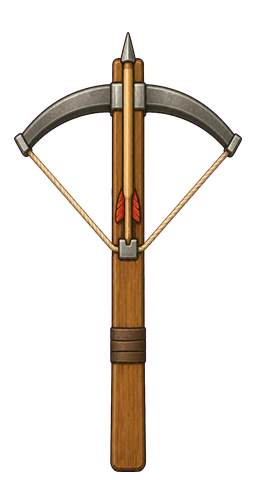
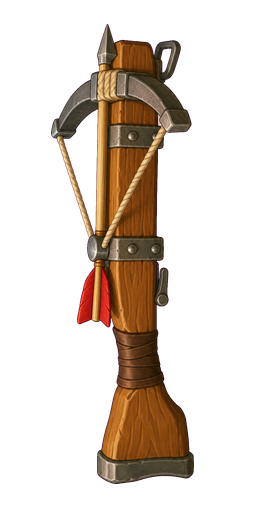
Crossbow art: drawn side-on like the characters, and beefier
The first drawing was the crossbow seen from above (a wide arch of a bow). The owner asked for
a flatter camera, the one the character art uses, and a heavier design: a new drawing
(job weapons-r6) lies level, seen from the side, the bow foreshortened, with a deep butt, a
thick banded fore-end and a heavy steel bow. weaponfit --level turns a level drawing upright
for the weapon footprint. The hold and the shot are unchanged; the hand points moved to the
new drawing's grip and fore-end.

Changed region(s): [[0.0625, 0.0312, 0.9688, 1.0]]

diff --git a/tools/art/weaponfit.js b/tools/art/weaponfit.js
@@ -15,6 +15,8 @@
  *        --hold 0.14           where along the weapon the hand holds it: 0 its butt, 1 its point
  *        [--widen 1.5]         draw it this much wider than it is long-scaled (a rapier's blade is a hair at board size;
  *                              below 1 narrows it: the crossbow is drawn from above and narrowed to the board's view)
+ *        [--level]             the drawing lies LEVEL, pointing right (the crossbow, drawn from the side as it is held):
+ *                              turn it upright, point up, before fitting; held level in the hands it is the drawing again
  *        [--pockets]           the drawing ENCLOSES background (between a crossbow's string and its stock): key every
  *                              magenta pixel, not only the magenta that touches the border. Only for art with no pink or purple
  */
@@ -31,7 +33,8 @@ const LENGTH = Number(args.length), HOLD = Number(args.hold), WIDEN = Number(arg
 
 (async () => {
   // steel is grey: never drop low-saturation pixels; only the magenta that touches the border is background
-  const keyed = await keyMagenta(fs.readFileSync(path.resolve(args.in)), { dropGrey: false, flood: !args.pockets });
+  const source = fs.readFileSync(path.resolve(args.in));
+  const keyed = await keyMagenta(args.level ? await sharp(source).rotate(270).png().toBuffer() : source, { dropGrey: false, flood: !args.pockets });
   const { data, info } = await sharp(keyed).ensureAlpha().raw().toBuffer({ resolveWithObject: true });
   const W = info.width, H = info.height, solid = (x, y) => data[(y * W + x) * 4 + 3] > 40;
   let top = H, bottom = -1, left = W, right = -1;

diff --git a/game-client/src/Render/PixiRenderer/heldWeapon.js b/game-client/src/Render/PixiRenderer/heldWeapon.js
@@ -66,8 +66,10 @@ export const WEAPON_CLASSES = {
   // `bow` names the drawing (ArmRig BOW_STYLES); every bow shares the one shot (owner 2026-11-13)
   bow:     { bow: 'short', clip: 'shoot' },
   longbow: { bow: 'long', clip: 'shoot' },
-  // drawn from above and narrowed (weaponfit --widen 0.9), so that turned level it is a crossbow in the board's view
-  crossbow: { art: 'weapon-crossbow.png', size: [256, 480], grip: [128, 344], angle: ALONG, guard: CROSSBOW_GUARD, clip: 'bolt', second: 0.34 },
+  // drawn LEVEL from the side, as the avatar is seen, its bow foreshortened, and stored upright like every weapon
+  // (weaponfit --level): held level it is that drawing again. The near hand on the leather grip, the far hand between
+  // the fore-end's two steel bands
+  crossbow: { art: 'weapon-crossbow.png', size: [256, 512], grip: [128, 360], angle: ALONG, guard: CROSSBOW_GUARD, clip: 'bolt', second: 0.38 },
   dagger:  { art: 'weapon-dagger.png', size: [128, 512], grip: [64, 448], angle: ALONG, guard: THRUST_GUARD, clip: 'thrust' },
   spear:   { art: 'weapon-spear.png', size: [128, 768], grip: [64, 470], angle: ALONG, guard: THRUST_GUARD, clip: 'thrust' },
   polearm: { art: 'weapon-halberd.png', size: [256, 896], grip: [128, 580], angle: ALONG, guard: POLE_GUARD, clip: 'thrust2', second: 0.5 },

diff --git a/docs/equipment-plan.md b/docs/equipment-plan.md
@@ -122,16 +122,16 @@ The owner asked to see the sword in the game before any more planning. What is i
   docs/art/equipment/longbow-shot.gif (half speed).
 - **The crossbow (owner 2026-11-13: "the avatar just needs to hold it level ... no animation other than
   the standard full-body recoil"):** category `crossbow` (Crossbow, Heavy Crossbow, Magic Crossbow,
-  Legendary Crossbow), clip `bolt`. A painted prop like the melee weapons (`weapon-crossbow.png`, job
-  `weapons-r5`, one candidate), held in BOTH hands as the two-handed weapons are: the near hand on the
+  Legendary Crossbow), clip `bolt`. A painted prop like the melee weapons (`weapon-crossbow.png`), held in BOTH hands as the two-handed weapons are: the near hand on the
   leather grip, the far hand under the fore-end, the weapon keyed level (`a` a quarter turn) at the
   chest. The clip has a `body` track only: the bolt goes at 30 ms and the figure kicks back 0.07 of a
   tile and settles (260 ms). A clip that keys neither arm nor weapon HOLDS the guard
-  (`ArmRig.secondPose`), so both hands stay on it through the shot. The drawing is the crossbow seen
-  from directly above, cocked, a bolt in the groove, and narrowed to 0.9 by `weaponfit --widen`: turned
-  level in the hands that is a level crossbow in the board's three-quarter view, the bow across it
-  reading at a glance (a true side view hides the bow and reads as a plain stock). `weaponfit
-  --pockets` keys the background the string encloses. The bolt is part of the picture and stays in it
+  (`ArmRig.secondPose`), so both hands stay on it through the shot. The drawing (job `weapons-r6`) is a heavy,
+  beefy crossbow drawn LEVEL from the side, the camera the avatar is drawn with, its bow strongly
+  foreshortened; `weaponfit --level` turns it upright for the weapon footprint, and held level it is
+  that drawing again. The first drawing (`weapons-r5`: seen from directly above, the bow a wide arch)
+  was rejected (owner 2026-11-13: "flatter camera angle, more like the character art camera angle. And
+  a beefier design"). `weaponfit --pockets` keys the background the string encloses. The bolt is part of the picture and stays in it
   after the shot. docs/art/equipment/crossbow-shot.gif (half speed).
 - **Poses are absolute (2026-11-13):** the avatar's guards and clips say where the upper arm and
   the forearm POINT (clockwise from straight down), not how far to turn them from the outfit's own
